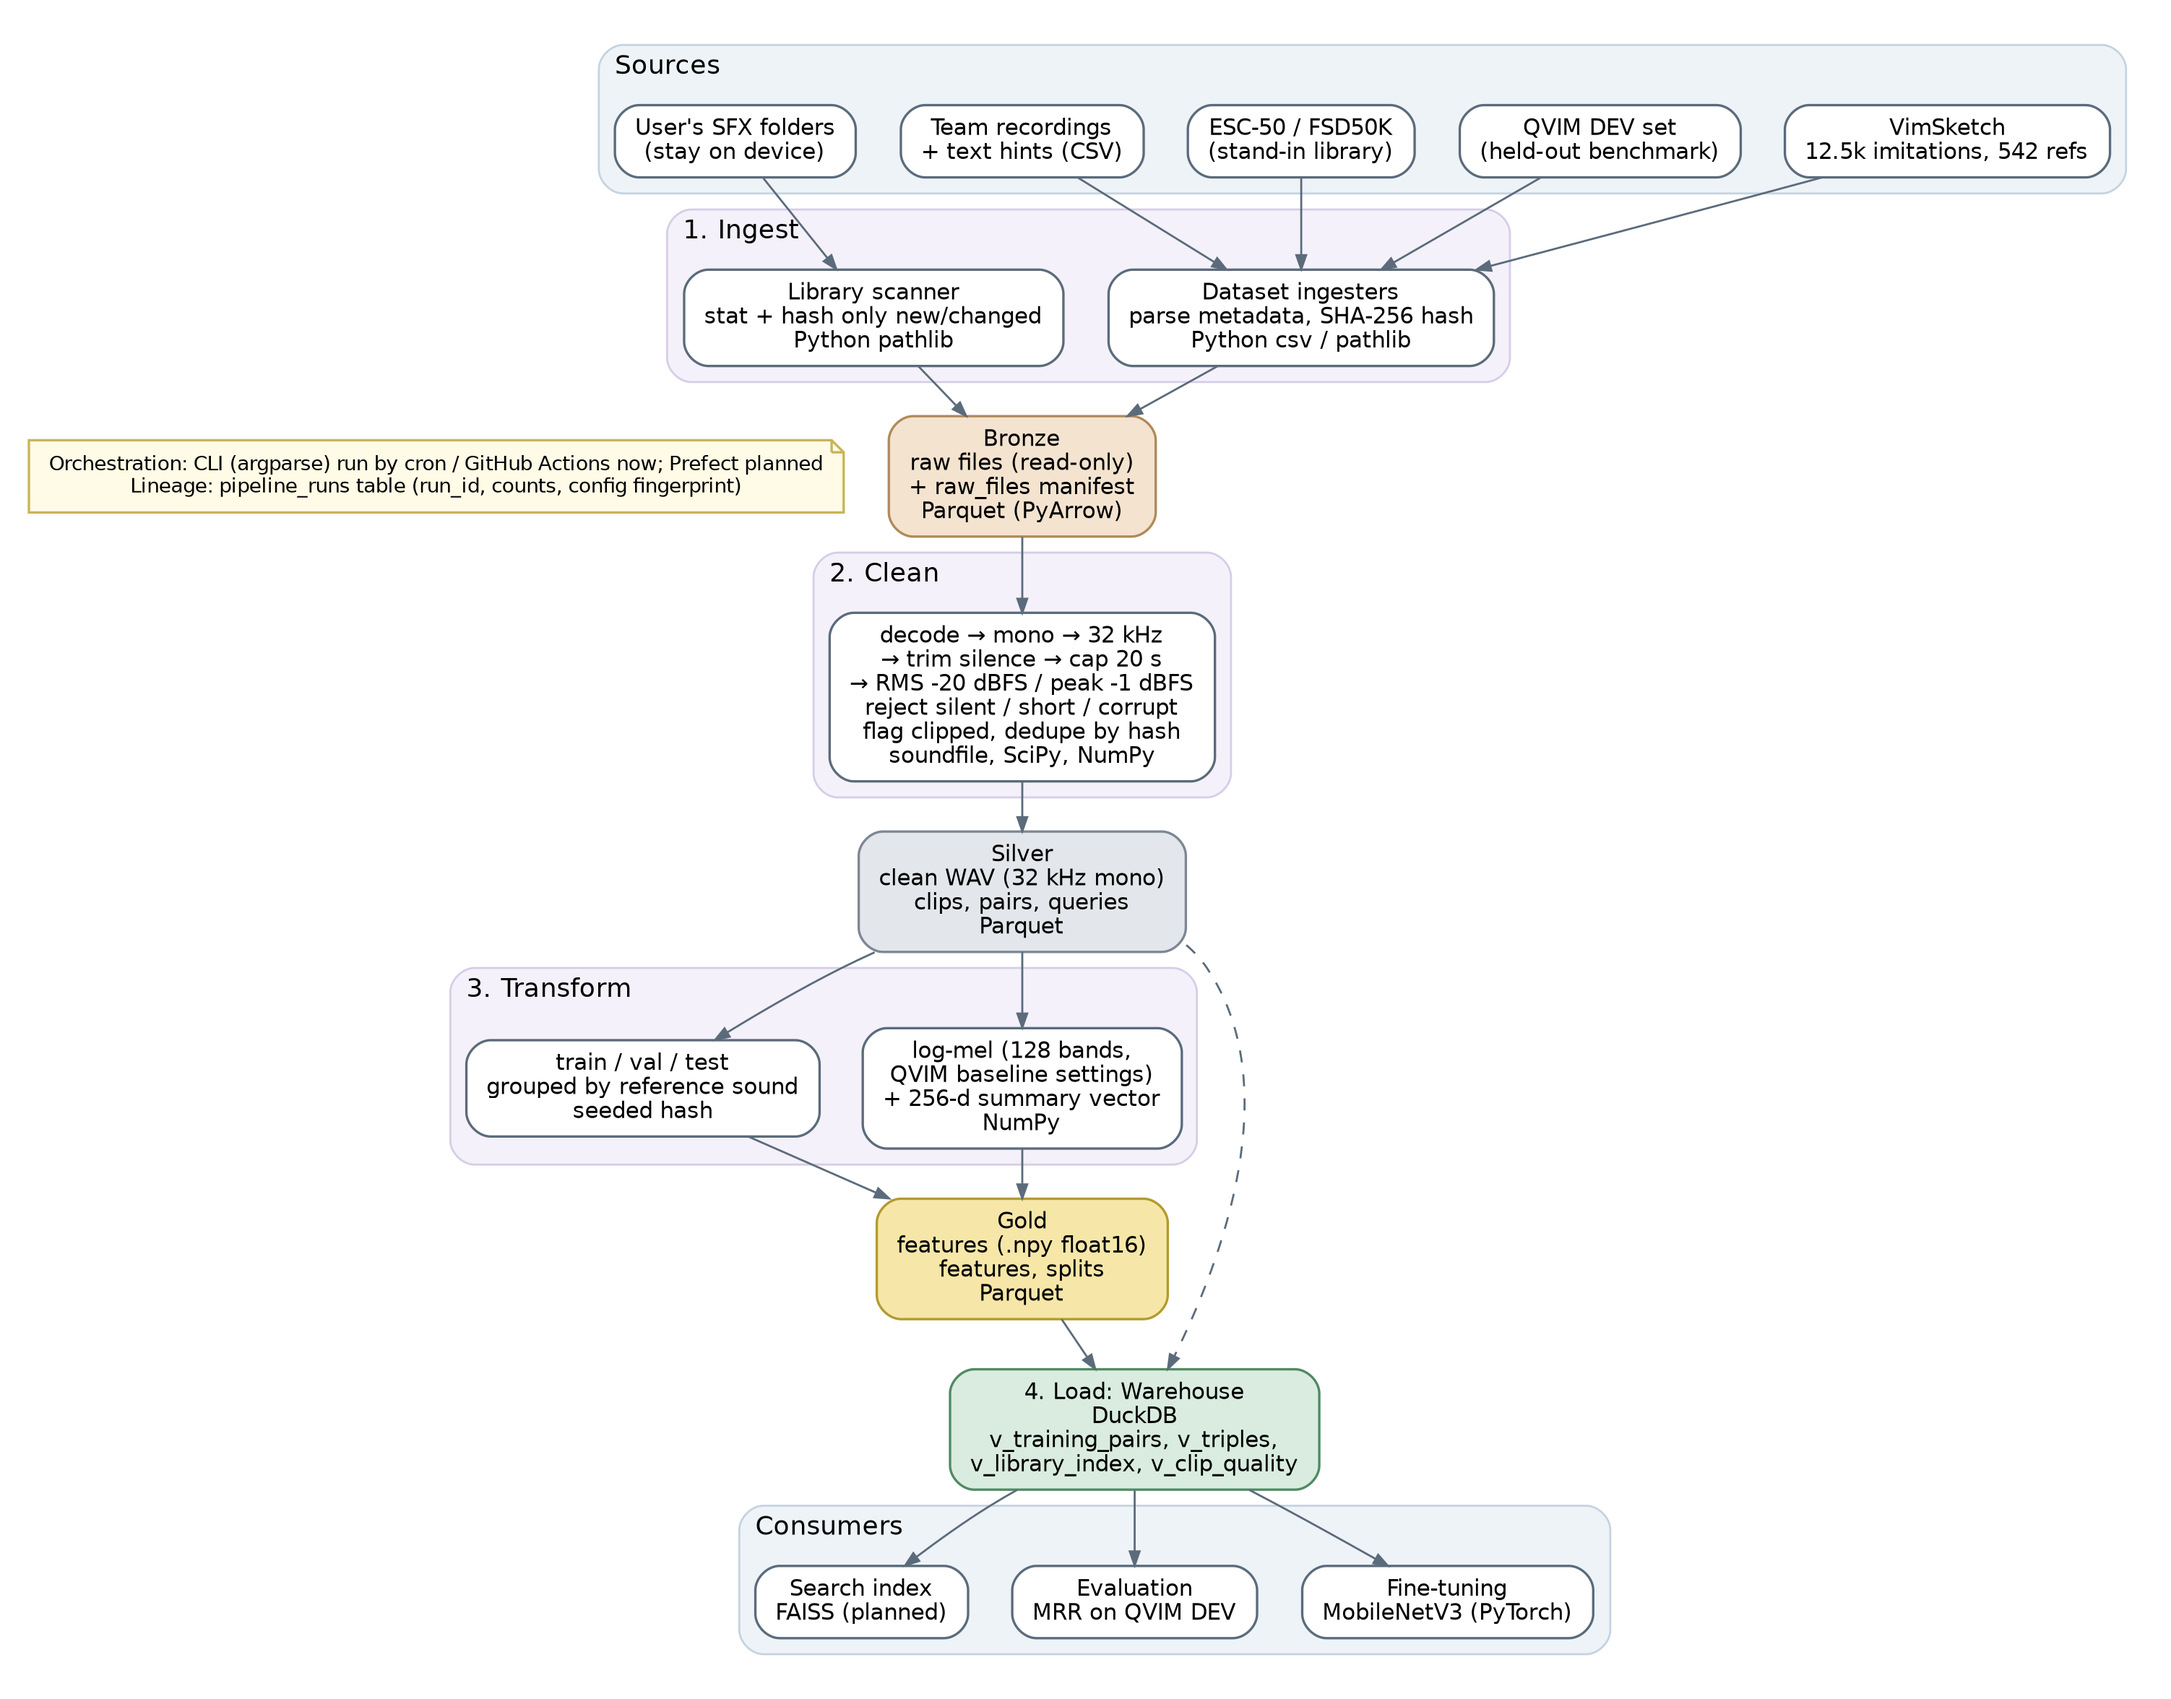
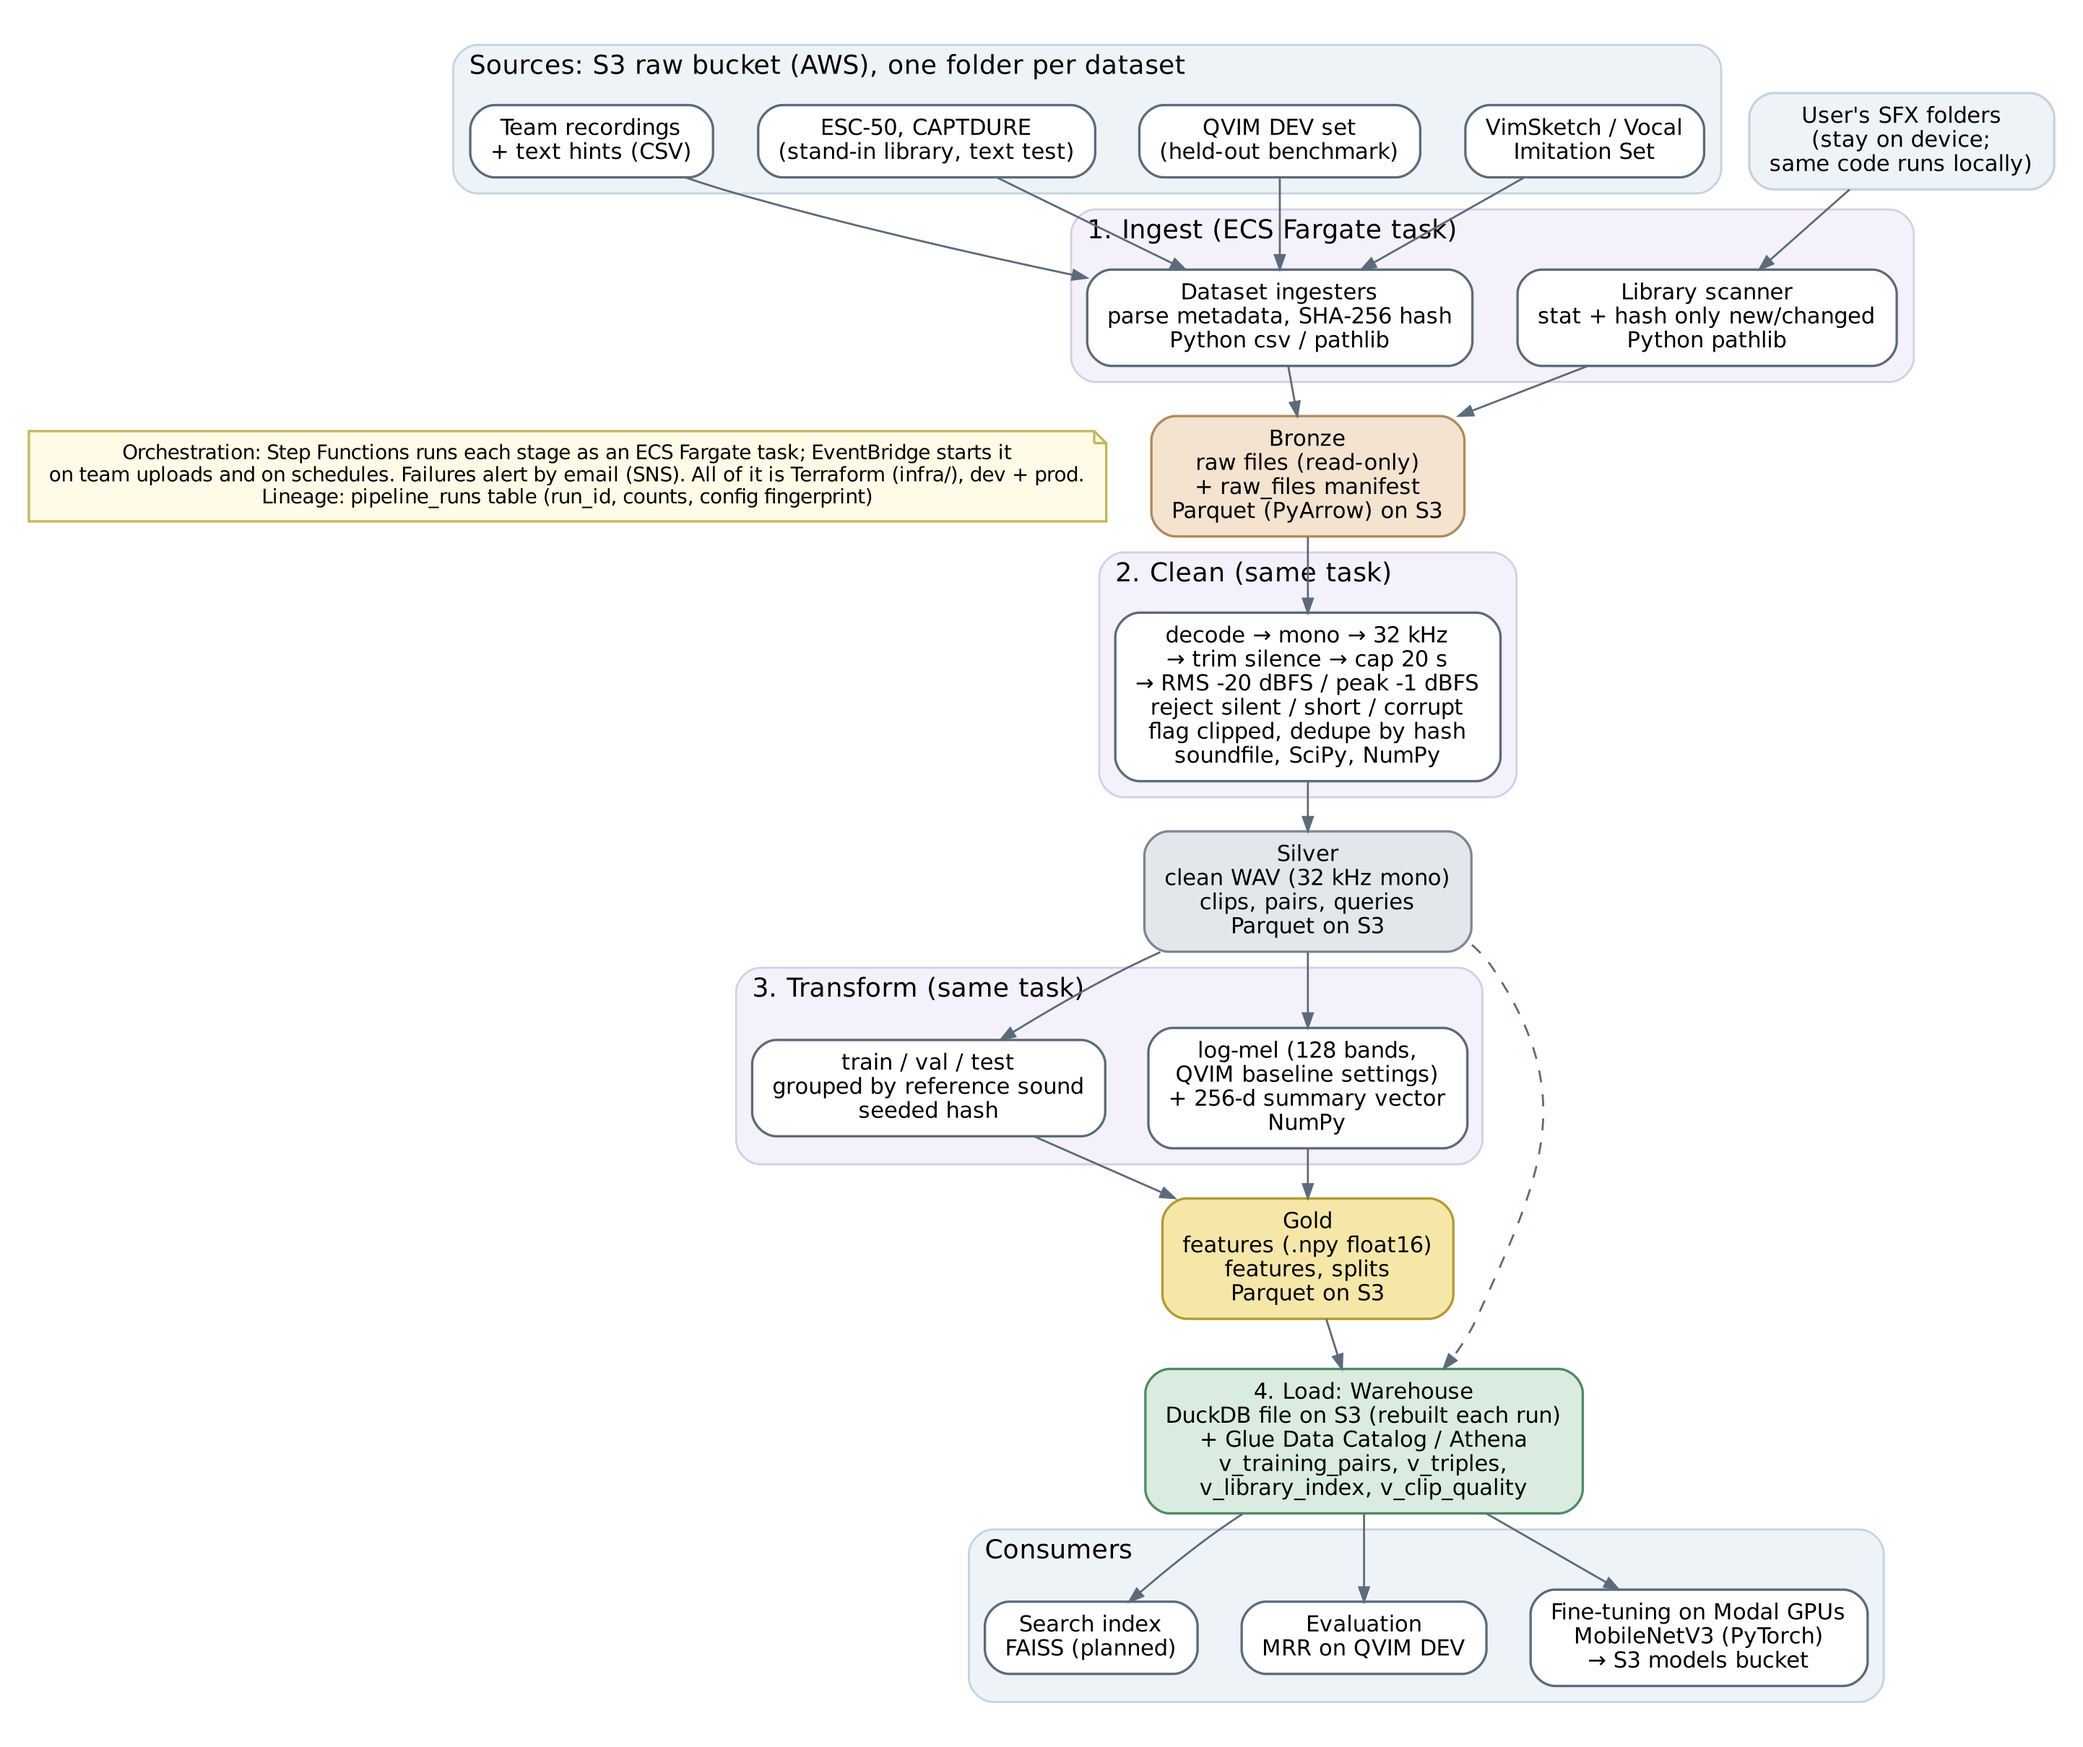
Docs: AWS deployment diagram, updated architecture figure and READMEs
Claude-Session: https://claude.ai/code/session_01Swqshtf1SEBmeaXPFnXJyz

Changed region(s): [[0.0, 0.031, 0.9986, 0.9622], [0.2184, 0.5587, 0.2809, 0.5897], [0.6865, 0.6207, 0.7178, 0.6518]]

diff --git a/pipeline/README.md b/pipeline/README.md
@@ -5,6 +5,10 @@ datasets from A2 Part Two and a user's own SFX folders, cleans the audio,
 computes features and train/val/test splits, and loads everything into a
 DuckDB warehouse.
 
+The same code runs on a laptop against a local `lake/` folder, or on AWS against
+an S3 lake (ECS Fargate tasks started by Step Functions, all defined in Terraform
+in [`../infra`](../infra)).
+
 ![Pipeline architecture](docs/diagrams/architecture.png)
 
 ## Layers
@@ -62,10 +66,31 @@ The tests build small synthetic datasets laid out exactly like ESC-50,
 VimSketch, the QVIM DEV set and team recordings, so they run offline in a few
 seconds.
 
+## On AWS
+
+The lake's source of truth on AWS is an S3 bucket with the same layout. A job
+pulls what it needs into a local working copy, runs the normal flow and pushes
+back new and changed files (`remote.py`, `sync.py`):
+
+```bash
+# What the Fargate task runs; the task definition sets these three variables.
+export VOCALOCATE_CONFIG=configs/prod.toml VOCALOCATE_RAW_URI=s3://<raw bucket> VOCALOCATE_LAKE_URI=s3://<lake bucket>
+vocalocate-pipeline remote ingest --source esc50      # raw files from s3://<raw bucket>/esc50/
+vocalocate-pipeline remote load-warehouse
+vocalocate-pipeline remote report
+
+vocalocate-pipeline sync s3://<lake bucket> lake --only warehouse   # copy part of the lake by hand
+```
+
+`configs/dev.toml` and `configs/prod.toml` are the AWS environments' settings.
+They change only the lake location and the worker count, never the audio,
+feature or split settings. The container image is built from `Dockerfile`.
+Deployment, environments and triggers are described in
+[`../infra/README.md`](../infra/README.md).
+
 ## Not implemented yet
 
-See the "Next steps" section of the A2 write-up. In short: Prefect
-orchestration and schedules, S3/MinIO storage, speech filtering for library
+See the "Next steps" section of the A2 write-up. In short: speech filtering for library
 files, Freesound and freesound-laion-640k ingestion, augmentation, FAISS indexing, and
 a parity test against the torchaudio feature code.
 

diff --git a/demo/README.md b/demo/README.md
@@ -218,14 +218,17 @@ vocalocate-demo summarize runs_real/lake/models/vis/recipe-490 runs_real/lake/mo
 
 On an 8 GB GPU the recipe fits only batch 16 (the paper uses 64) at about 3 minutes an epoch, so
 one seed of seven runs takes about 11 hours. `modal/recipe_app.py` instead runs every
-(seed, recipe) training in its own Modal GPU container, in parallel, at batch 64; see its
-docstring for the one-time upload of the warehouse and features to a Modal volume:
+(seed, recipe) training in its own Modal GPU container, in parallel, at batch 64. It first copies
+the warehouse and features from the S3 lake that the AWS pipeline fills (`infra/`), and at the end
+publishes the models to the S3 models bucket, through an AWS role it assumes with its Modal OIDC
+token. See its docstring for the one-time setup, or `--no-sync` to use a hand-uploaded volume:
 
 ```bash
 pip install modal && modal setup
+terraform -chdir=infra/envs/prod output -raw modal_secret_command | sh       # once: AWS role + buckets
 modal run demo/modal/recipe_app.py --seeds 9999 --models excluded --epochs 1   # probe one epoch
 modal run --detach demo/modal/recipe_app.py                                   # 3 seeds x 7 recipes
-modal volume get vocalocate-lake /models/vis ./runs_modal/
+aws s3 sync s3://<models bucket>/vis ./runs_modal/vis
 ```
 
 ### Recipe results (3 seeds: 490, 491, 492)
